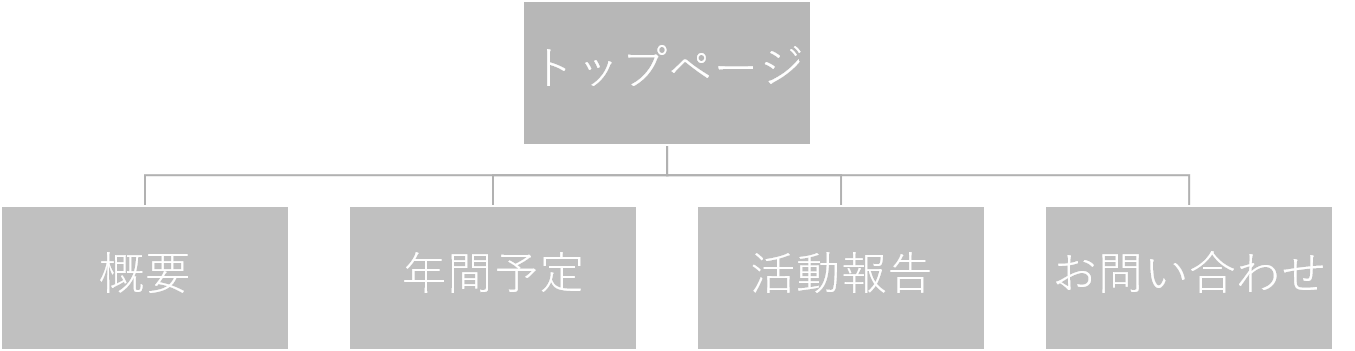
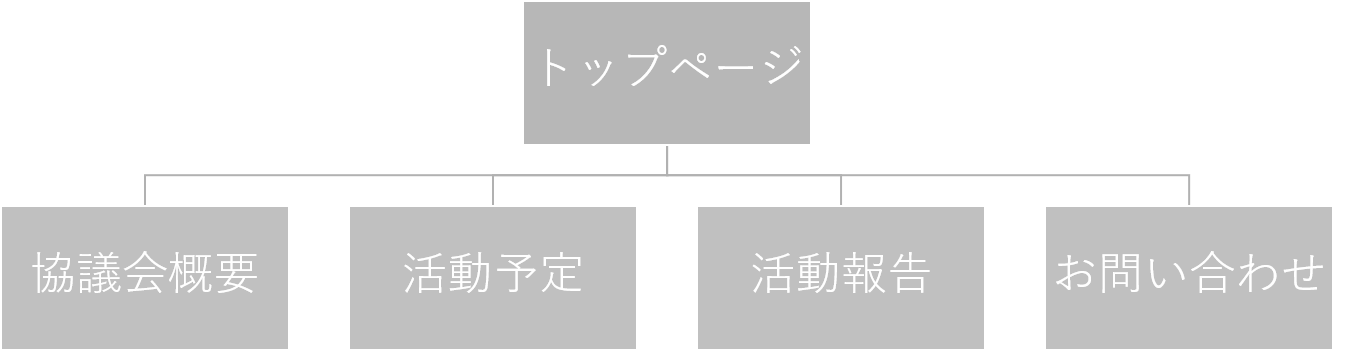
最終レポート途中

Changed region(s): [[0.0, 0.7123, 0.186, 0.8547], [0.279, 0.7123, 0.372, 0.8262]]

diff --git a/README.md b/README.md
@@ -6,20 +6,28 @@
 
 ## Webページの概要
 「大府コミュニティ推進協議会」のWebページを作成。  
-担当者より、新しいWebページを作ってほしいとの依頼を受けており、現在使われているページの内容を許諾を得て用いた。
+現在使われているページの内容を許諾を得て用いた。
 
 ## サイトマップ
 ![サイトマップ](sitemap.png)
 
 ## Webページの外観
+- トップページ
 
+- 協議会概要ページ
+
+- 活動予定ページ
+
+- 活動報告ページ
+
+- お問い合わせ
 
 ## 作業分担
 |      |                |                      | 
 | ---- | -------------- | -------------------- | 
-| 大杉 | 団体情報ページ | お問い合わせページ　 | 
+| 大杉 | 協議会概要ページ | お問い合わせページ　 | 
 | 笠井 | トップページ   | 活動予定ページ       | 
-| 金子 | 活動報告ページ | 最終レポート         | 
+| 金子 | 活動報告ページ | 調整及び最終レポート | 
 
 ## アピールポイント
 - 大杉 :  
@@ -29,3 +37,4 @@
 - 金子 :  
 活動報告のHTMLは頻繁に書き換えるため、できる限りHTMLの記述を減らし、CSSで管理するようにした。
 ## まとめ
+作業分担をページごとに分担したため、それぞれの個性が出るページとなった。一方で、まとまりがなくなり見栄えが悪くなりそうだったため、最後にヘッダーとフッダーを統一した。
